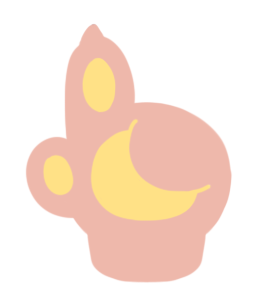
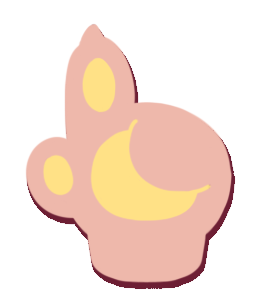
uploaded new backtotop pic, tweaked comfortaa font link

diff --git a/web/classification.html b/web/classification.html
@@ -6,6 +6,9 @@
     <meta name="viewport" content="width=device-width, initial-scale=1.0" />
     <link rel="stylesheet" href="css/general.css" />
     <link rel="stylesheet" href="css/classification.css" />
+    <link rel="preconnect" href="https://fonts.googleapis.com">
+    <link rel="preconnect" href="https://fonts.gstatic.com" crossorigin>
+    <link href="https://fonts.googleapis.com/css2?family=Comfortaa:wght@300..700&display=swap" rel="stylesheet">
 </head>
 
 <body>

diff --git a/web/css/classification.css b/web/css/classification.css
@@ -109,6 +109,7 @@ button.general {
     font-size: medium;
     color: #754b0b;
     background-color: #ffe186;
+    box-shadow: #754b0b;
     border: #ffe186 1px solid;
     border-radius: 20px;
     padding-left: 28px;
